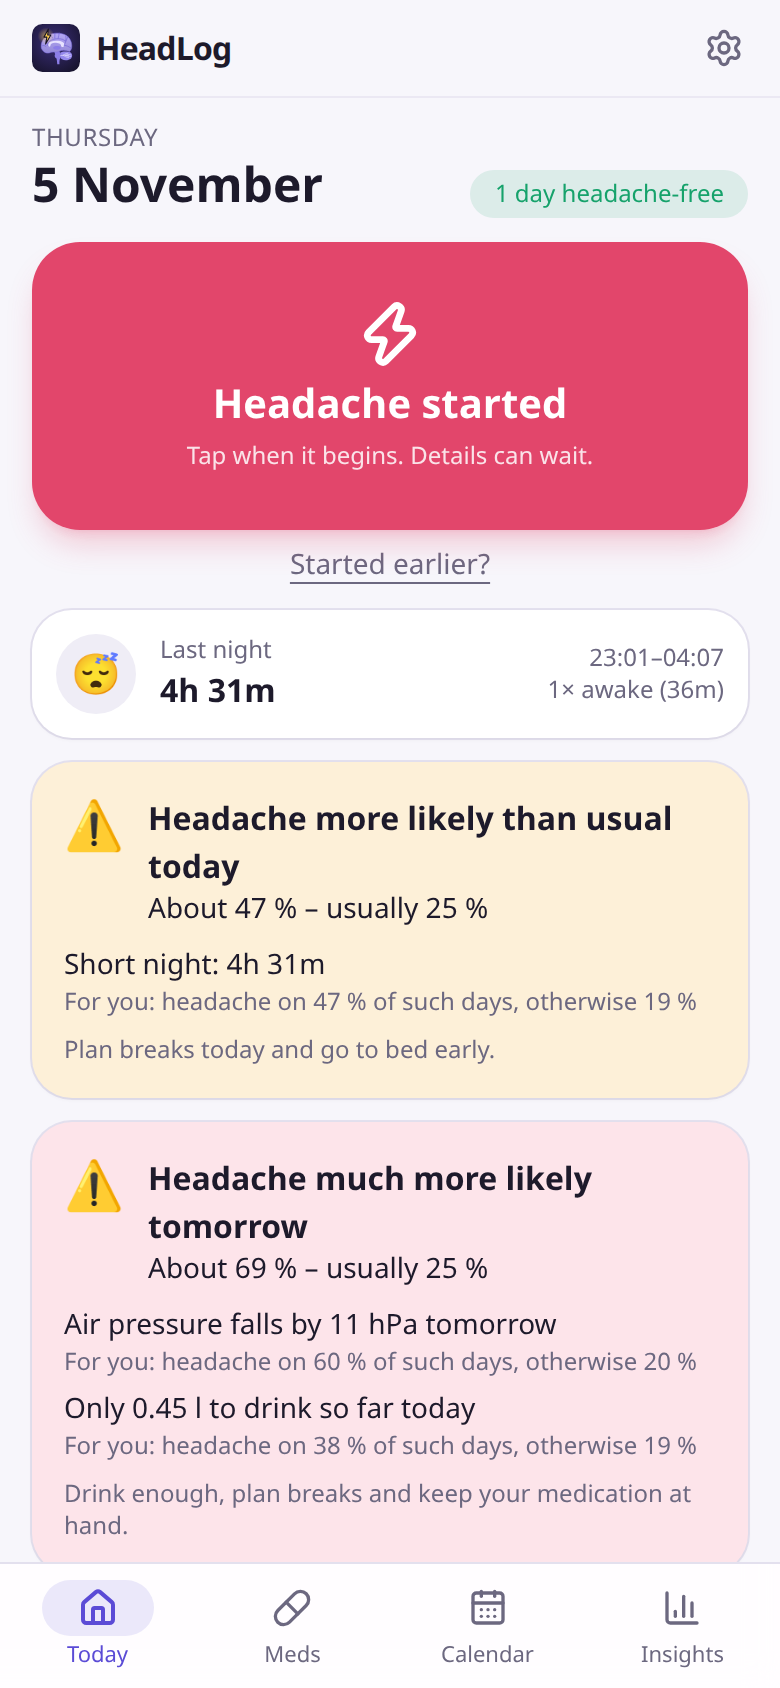
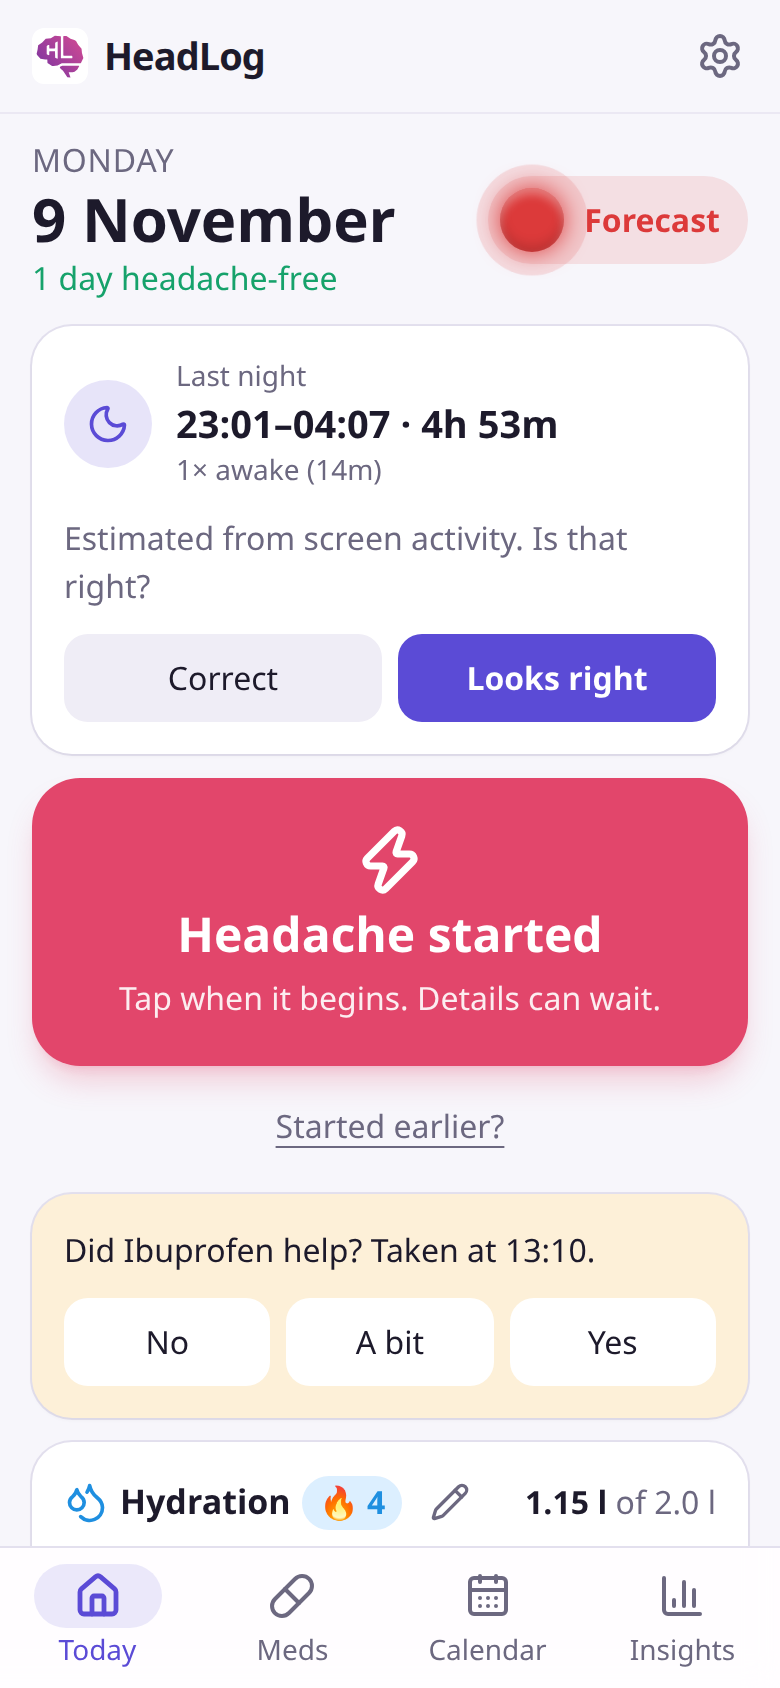
Refresh README text and screenshots, point releasing to CLAUDE.md (#99)

diff --git a/README.md b/README.md
@@ -7,13 +7,14 @@
 </p>
 
 <p align="center">
-  <img src="docs/screenshots/today.png" alt="Today" width="200">
-  <img src="docs/screenshots/meds.png" alt="10/20 rule" width="200">
-  <img src="docs/screenshots/calendar.png" alt="Calendar" width="200">
-  <img src="docs/screenshots/insights-dark.png" alt="Insights, dark theme" width="200">
+  <img src="docs/screenshots/today.png" alt="Today" width="160">
+  <img src="docs/screenshots/forecast.png" alt="Forecast traffic light" width="160">
+  <img src="docs/screenshots/meds.png" alt="10/20 rule" width="160">
+  <img src="docs/screenshots/calendar.png" alt="Calendar" width="160">
+  <img src="docs/screenshots/insights-dark.png" alt="Insights hour by hour, dark theme" width="160">
 </p>
 
-<p align="center"><a href="https://github.com/tillraab/headlog/releases/latest">Download the latest APK</a></p>
+<p align="center"><a href="https://github.com/tillraab/headlog/releases/latest">Download the latest APK</a> · <a href="docs/videos/HeadLog-teaser.en.mp4">Teaser video (47 s)</a> · <a href="docs/videos/HeadLog-guide.en.mp4">Guide video (4:35)</a></p>
 
 ## Features
 
@@ -22,12 +23,13 @@
 - **Hydration.** Your own drink buttons (glass 250 ml, bottle 700 ml, coffee, tea, ...) and a daily goal with a progress bar, right at the top of Today.
 - **Calendar.** Headache days shaded by intensity, dots for medication days and days you hit your water goal. Tap a day to see, edit or add entries after the fact.
 - **10/20 rule.** Take acute headache medication on fewer than 10 out of any 30 days, as the German migraine guideline (DGN/DMKG) advises. HeadLog shows your current count, what taking something today would mean, when the next medication day drops out of the window, a 90-day rolling trend, and the monthly overuse thresholds per medication type (ICHD-3). Preventive medication doesn't count. The limit is configurable.
-- **Forecast traffic light** on Today: weather (pressure forecast), hydration and last night's sleep as tiles, plus alcohol and caffeine. Green with no unfavourable factor, yellow with one, red with two or more. A coloured circle next to the date always shows it. Tap for every number and a tip. An evening notification warns when tomorrow does not look green, counting only what matters for tomorrow: a pressure drop tomorrow, too little to drink today and alcohol today.
-- **Weather and sleep:** daily weather at your home town (Open-Meteo, only the town's coordinates are sent) and a sleep estimate from screen activity, with wake breaks. Each morning Today shows last night with Looks right / Correct until it is confirmed, and an optional notification asks the same. Later edits go through the sleep tile of the forecast. The sleep editor is a timeline: drag falling asleep and waking up, tap a wake break to edit it magnified, and see when the screen was on.
-- **Insights** over 3, 7, 30, 90 or 365 days (3 and 7 days hour by hour, with tomorrow's pressure forecast): a timeline of headaches, hydration, sleep and air pressure with headache days marked, a comparison of headache days with other days, headache and medication days per month, average duration and intensity, which weekdays and times of day headaches start, how much you drank the day before a headache compared to the day before a clear day, how well each medication helped, and your most common triggers.
+- **Forecast traffic light** on Today with five factors as tiles: weather (a pressure drop of more than 5 hPa from today to tomorrow), hydration (yesterday, and today against your pace), last night's sleep (under 5 hours, or asleep under 85 % of the night), alcohol and a drop in caffeine. Green with no unfavourable factor, yellow with one, red with two or more. Tap for every number, a tip and the rule behind each factor. Each rule's (i) names its studies, how strong the evidence is, and lists the full references.
+- **Tomorrow's risk** as a row under the tiles, and an optional evening notification when tomorrow does not look green. It counts only what matters for tomorrow: a pressure drop from tomorrow to the day after, too little to drink today and alcohol today. Settings shows what tonight's warning will say.
+- **Weather and sleep:** daily weather at your home town (Open-Meteo, only the town's coordinates are sent) and a sleep estimate from screen activity, with wake breaks. Each morning Today shows last night with Looks right / Correct until it is confirmed, and an optional notification asks the same. The sleep editor is a timeline: drag falling asleep and waking up, tap a wake break to edit it magnified, and see when the screen was on.
+- **Insights** over 3, 7, 30, 90 or 365 days: a timeline of headaches, hydration, sleep and air pressure, hour by hour for 3 and 7 days, running on into the pressure forecast. Tap or drag across it to see the values at that moment and what happened around it. Orange marks the days before a pressure drop. Also a comparison of headache days with other days, headache and medication days per month, average duration and intensity, weekdays and times of day headaches start, how well each medication helped, and your most common triggers.
 - **Doctor report (PDF)** on one page for 1 to 12 months, from Insights or Settings: key figures, a headache calendar, charts of headache and medication days per month and of the 10/20 rule over time, medication with how often it helped and your limits, and the most common triggers. CSV with every entry for the same period.
 - **Personal limits per medication**, e.g. at most 5 triptan days in any 30 days, shown on the button, in the Meds tab and in the report.
-- **Reminders:** a notification one hour after taking medication asking whether it helped (answer right in the notification), reminders at noon and in the evening if you are behind your hydration goal, and, if you like, a reminder to drink when you have not logged a drink for a while (default: 2 hours, between 8:00 and 20:00).
+- **Reminders:** after taking medication, a question whether it helped (default after one hour; answer right in the notification), during a headache a question every few hours whether it is still there, reminders at noon and in the evening if you are behind your hydration goal, and, if you like, a reminder to drink when you have not logged a drink for a while (default: 2 hours, between 8:00 and 20:00).
 - **Undo instead of "are you sure?"** Every quick action shows an undo button.
 - **Backup** as a JSON file and **CSV export** for your doctor, both through the Android share sheet.
 - **Optional cloud backup** to a secret gist in your GitHub account, updated whenever you leave the app. Every backup is kept as a version, so you can go back to any earlier state by date and time.
@@ -87,16 +89,7 @@ cd android && ./gradlew assembleRelease
 
 ### Releasing
 
-Add the changes under a new version heading in [CHANGELOG.md](CHANGELOG.md), bump `version` in `package.json`, commit, then push a tag:
-
-```bash
-git tag v0.2.0
-git push origin v0.2.0
-```
-
-The [Android Release](.github/workflows/android-release.yml) workflow tests, builds and signs the APK and publishes it as a GitHub release with the changelog section as release notes. Obtainium picks it up from there.
-
-Signing uses the repository secrets `ANDROID_KEYSTORE_BASE64`, `ANDROID_KEYSTORE_PASSWORD`, `ANDROID_KEY_ALIAS` and `ANDROID_KEY_PASSWORD`. Android only installs an update when it is signed with the same key, so keep a copy of the keystore somewhere safe.
+Releases are published by the maintainer. The steps are in [CLAUDE.md](CLAUDE.md#releases).
 
 ## Tech stack
 

diff --git a/CLAUDE.md b/CLAUDE.md
@@ -108,4 +108,4 @@ Releases are cut from `main` only.
 2. Tag the merged commit on `main`: `git checkout main && git pull && git tag vX.Y.Z && git push origin vX.Y.Z`.
 3. `.github/workflows/android-release.yml` checks that the tag matches `version` in `package.json`, then tests, builds, signs and publishes `headlog-X.Y.Z.apk`. Obtainium picks it up.
 
-`versionCode` is `major*10000 + minor*100 + patch` and must grow with every release. The signing key is a repository secret; the owner keeps the keystore outside the repository. Android only installs updates signed with the same key, so never change the signing setup.
+`versionCode` is `major*10000 + minor*100 + patch` and must grow with every release. The signing key is in the repository secrets `ANDROID_KEYSTORE_BASE64`, `ANDROID_KEYSTORE_PASSWORD`, `ANDROID_KEY_ALIAS` and `ANDROID_KEY_PASSWORD`; the owner keeps the keystore outside the repository. Only the owner can push the release tag. Android only installs updates signed with the same key, so never change the signing setup.
